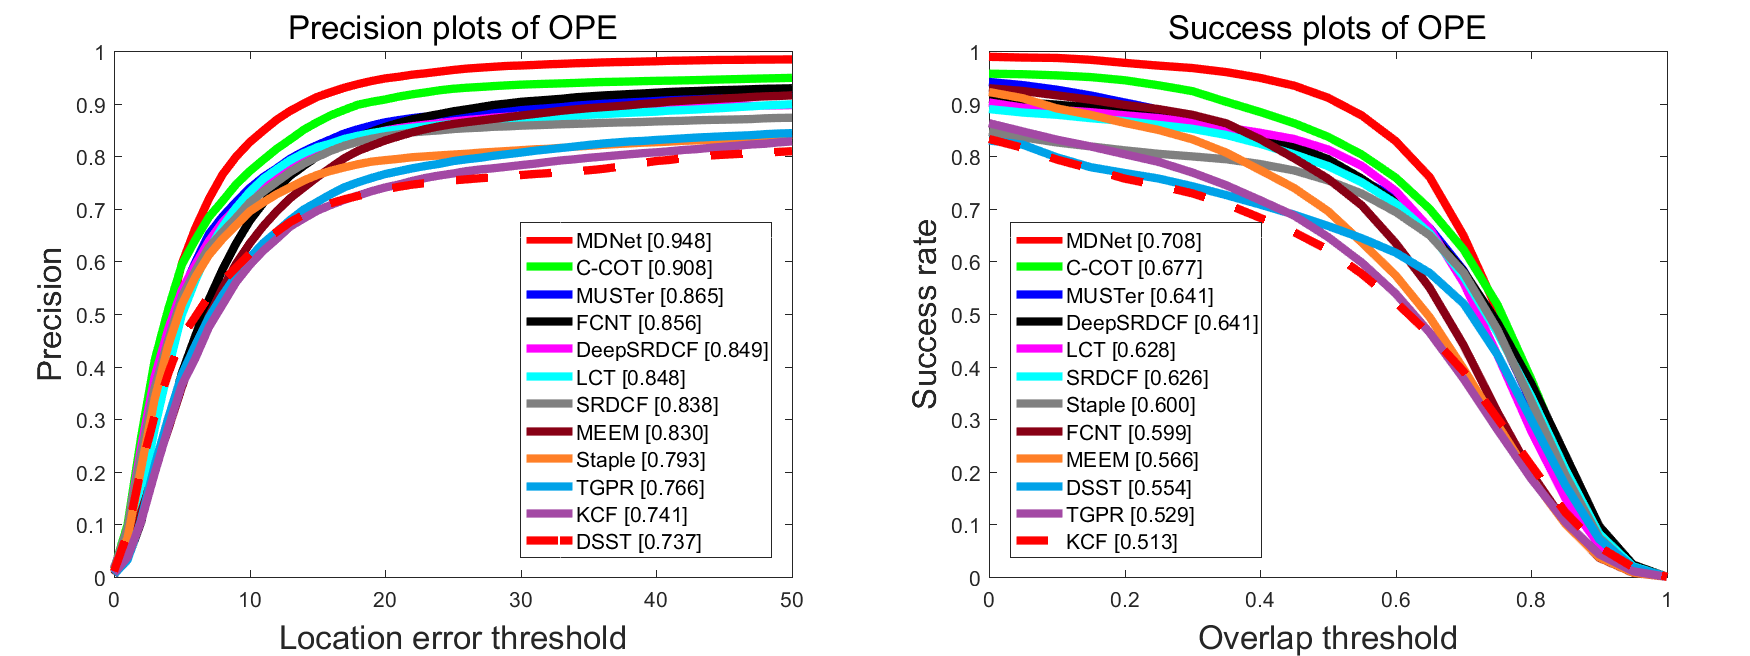
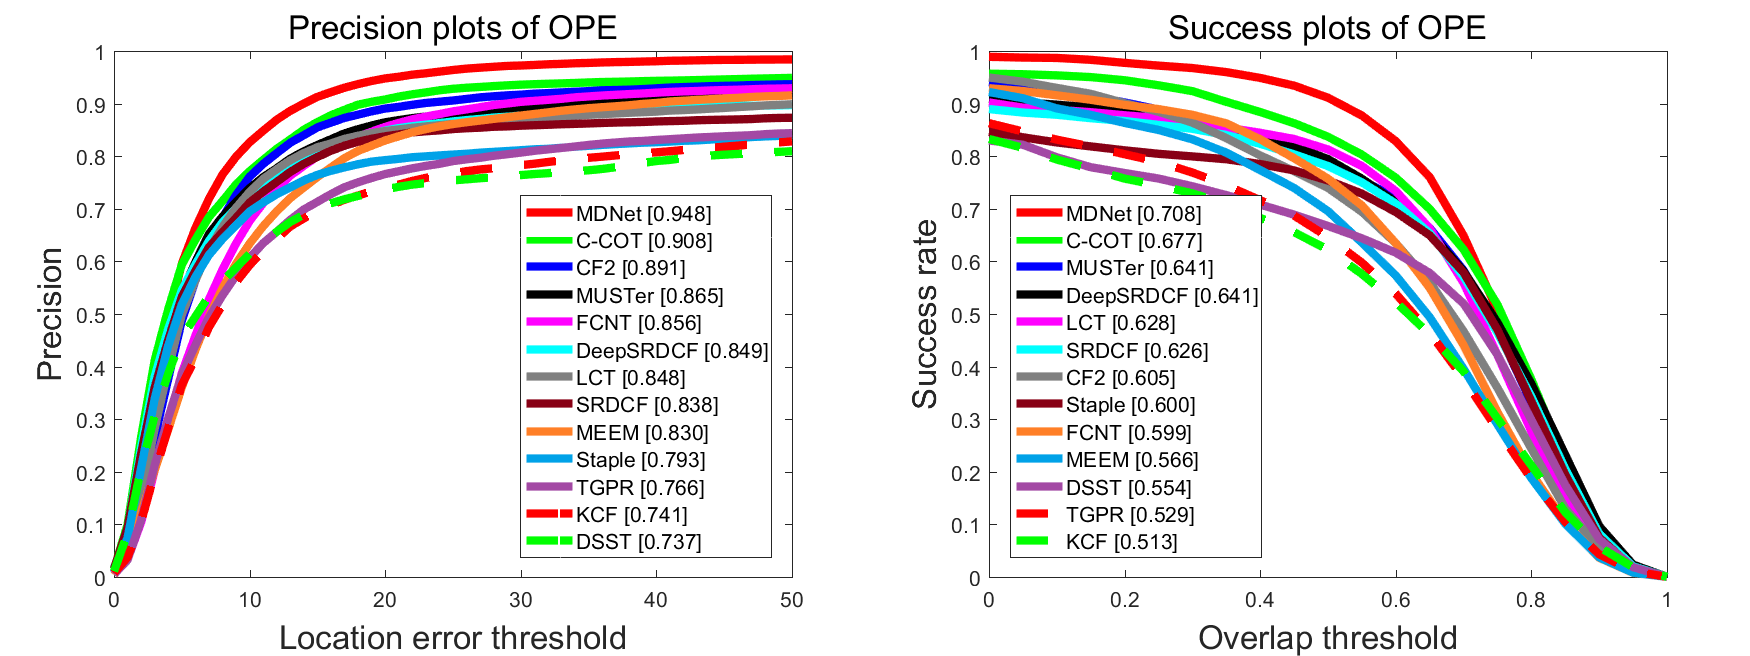
CF2

diff --git a/README.md b/README.md
@@ -30,8 +30,13 @@
 [[paper](https://www.cvl.isy.liu.se/research/objrec/visualtracking/regvistrack/SRDCF_ICCV15.pdf)]
 [[project](https://www.cvl.isy.liu.se/research/objrec/visualtracking/regvistrack/)]
 
+* **CF2:** Chao Ma, Jia-Bin Huang, Xiaokang Yang and Ming-Hsuan Yang.
+"Hierarchical Convolutional Features for Visual Tracking." ICCV (2015)
+[[paper](http://faculty.ucmerced.edu/mhyang/papers/iccv15_tracking.pdf)]
+[[project](https://sites.google.com/site/jbhuang0604/publications/cf2)]
+
 * **FCNT:** Lijun Wang, Wanli Ouyang, Xiaogang Wang, and Huchuan Lu. 
-"Visual Tracking with fully Convolutional Networks." ICCV (2015). 
+"Visual Tracking with Fully Convolutional Networks." ICCV (2015). 
 [[paper](http://202.118.75.4/lu/Paper/ICCV2015/iccv15_lijun.pdf)]
 [[project](http://scott89.github.io/FCNT/)]
 
